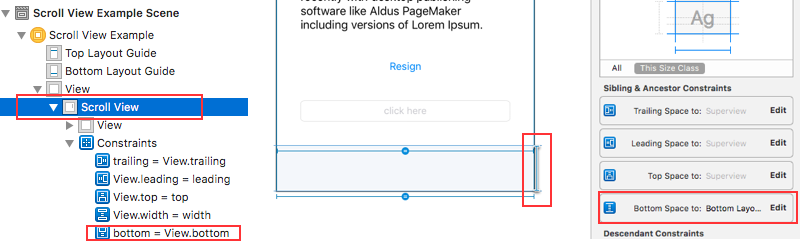
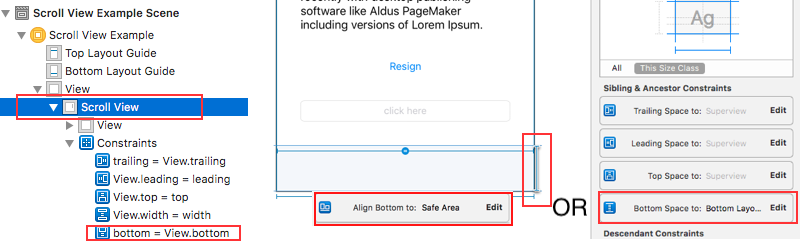
Update readme

Changed region(s): [[0.375, 0.781, 0.6562, 0.9545], [0.6875, 0.8099, 0.75, 0.8967]]

diff --git a/README.md b/README.md
@@ -1,11 +1,12 @@
 # AutoKeyboard for iOS written in Swift
 
-Automatic Keyboard handling with ease. It is fully automatic keyboard handling. Like in android no need to resize views when keyboard appears. It updates constraints which are bounded with `bottomLayoutGuide`. Feels like `bottomLayoutGuide` moves UP and DOWN with keyboard. Just need to `register` and `unResgister` thats it.
+Automatic Keyboard handling with ease. It is fully automatic keyboard handling. Like in android no need to resize views when keyboard appears. It updates constraints which are bounded with `bottomLayoutGuide` or `safeAreaLayoutGuide`. Like `bottomLayoutGuide` or `safeAreaLayoutGuide` moves UP and DOWN with keyboard. Just need to `register` and `unResgister` thats it.
 
 ## []()
 ![alt tag](https://github.com/chanonly123/AutoKeyboard/blob/master/demo.gif)
 
 ## Features
+- safeAreaLayoutGuide suppord added.
 - UITabBarController support added.
 - UIViewController extension, no need to extend classes.
 - Device rotation supported.
@@ -26,7 +27,7 @@ Automatic Keyboard handling with ease. It is fully automatic keyboard handling. 
 ## Usage
 ### Basic Usage
 ![Alt text](https://github.com/chanonly123/AutoKeyboard/blob/master/help.png)<br />
-- Add constrainsts to `bottomLayoutGuide` and they will update when keyboard appears.
+- Add constrainsts to `bottomLayoutGuide` or `safeAreaLayoutGuide` and they will update when keyboard appears.
 - And Register your specific ViewController, you should also unregister.
 ```Swift
 override func viewWillAppear(_ animated: Bool) {
